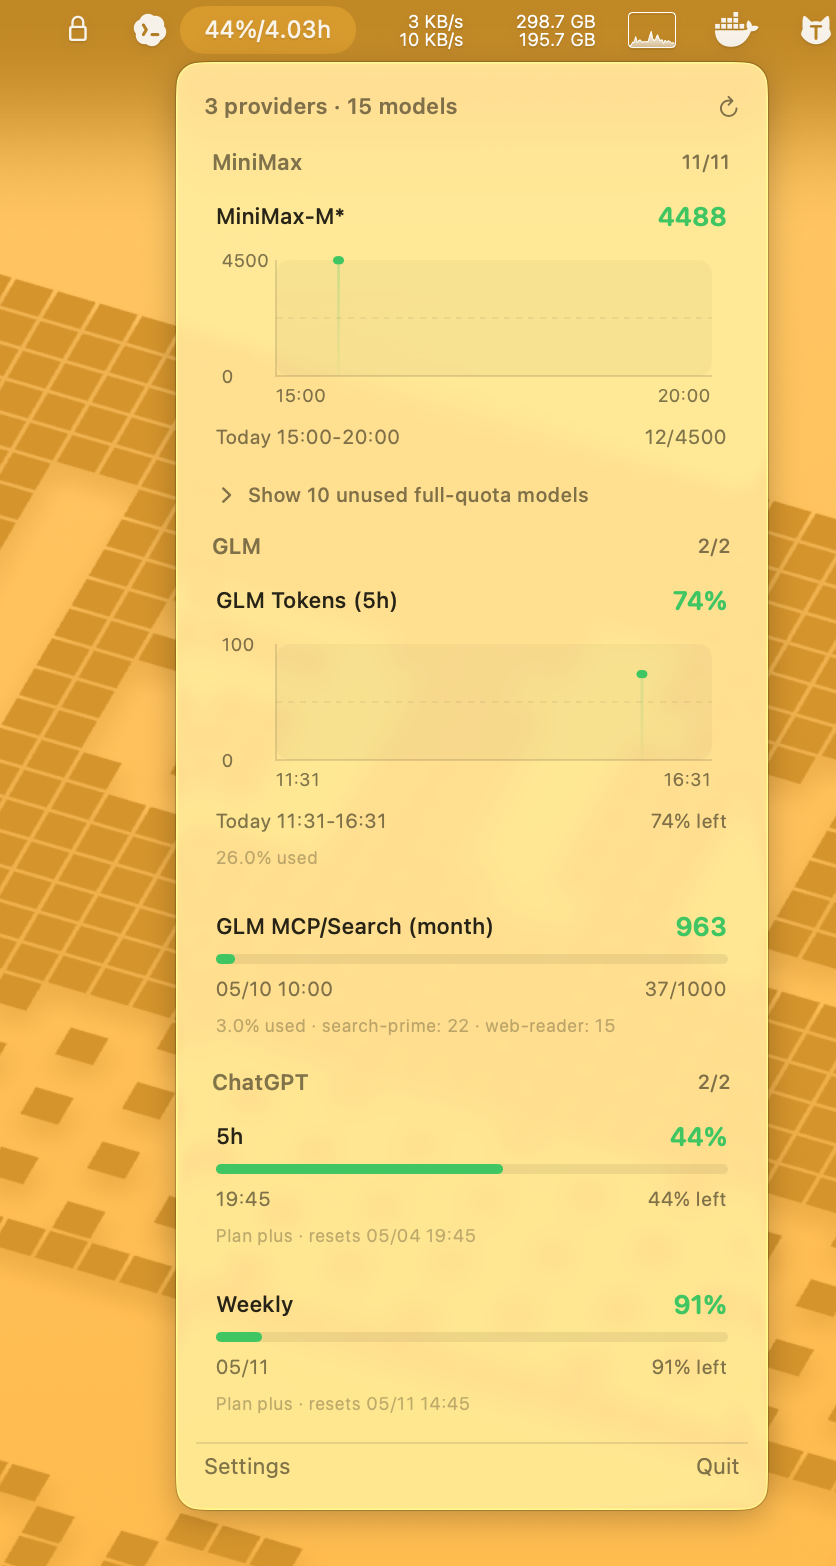
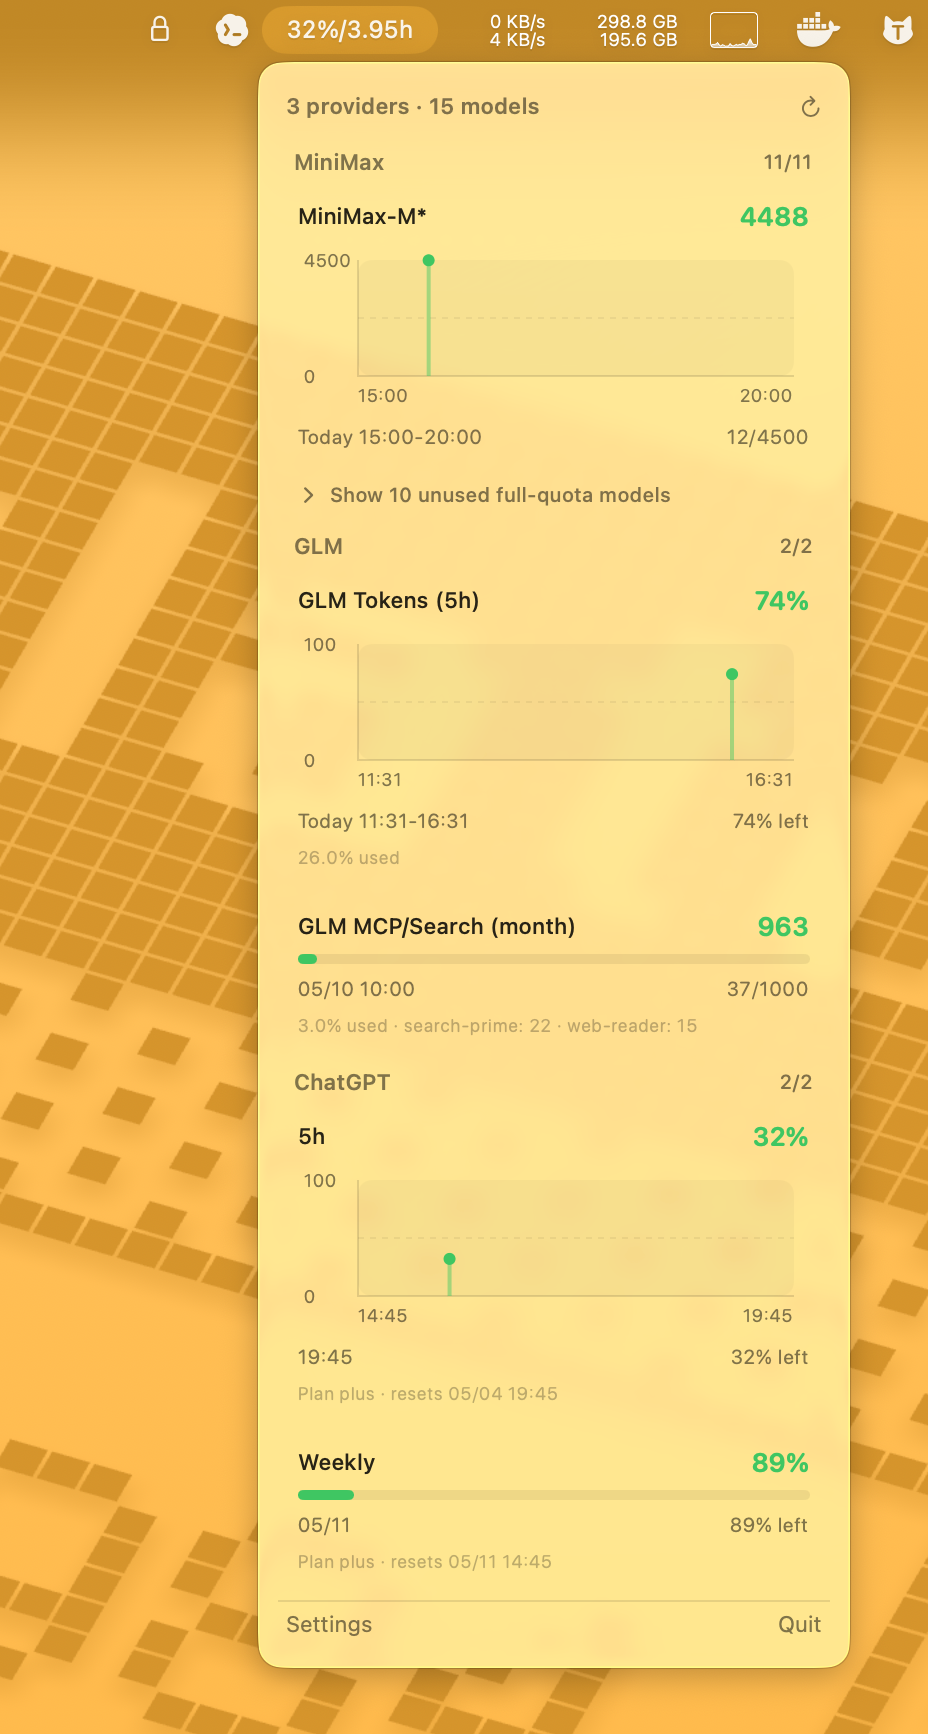
fix(chatgpt): chart short quota window

diff --git a/AIQuotaBar/Services/UsageService.swift b/AIQuotaBar/Services/UsageService.swift
@@ -499,6 +499,7 @@ final class UsageService {
         let name = chatGPTModelName(from: object, inheritedName: inheritedName)
         let endTime = firstDate(in: object, matching: chatGPTResetKeys)
             ?? firstResetIntervalDate(in: object)
+        let startTime = chatGPTWindowStartTime(name: name, endTime: endTime)
 
         return ChatGPTQuotaCandidate(
             name: name,
@@ -507,11 +508,31 @@ final class UsageService {
             valueSuffix: valueSuffix,
             weeklyTotal: 0,
             weeklyRemaining: 0,
-            startTime: nil,
+            startTime: startTime,
             endTime: endTime,
             weeklyStartTime: nil,
             weeklyEndTime: nil
         )
+    }
+
+    private func chatGPTWindowStartTime(name: String, endTime: Date?) -> Date? {
+        guard let endTime else { return nil }
+
+        let loweredName = name.lowercased()
+        if loweredName.contains("5h") || loweredName.contains("primary") || loweredName.contains("session") {
+            return endTime.addingTimeInterval(-5 * 60 * 60)
+        }
+
+        if loweredName.contains("weekly") || loweredName.contains("7d") || loweredName.contains("secondary") {
+            return endTime.addingTimeInterval(-7 * 24 * 60 * 60)
+        }
+
+        let remaining = endTime.timeIntervalSince(Date())
+        if remaining > 0, remaining < 86_400 {
+            return endTime.addingTimeInterval(-5 * 60 * 60)
+        }
+
+        return nil
     }
 
     private func chatGPTWindowKey(for candidate: ChatGPTQuotaCandidate) -> String {